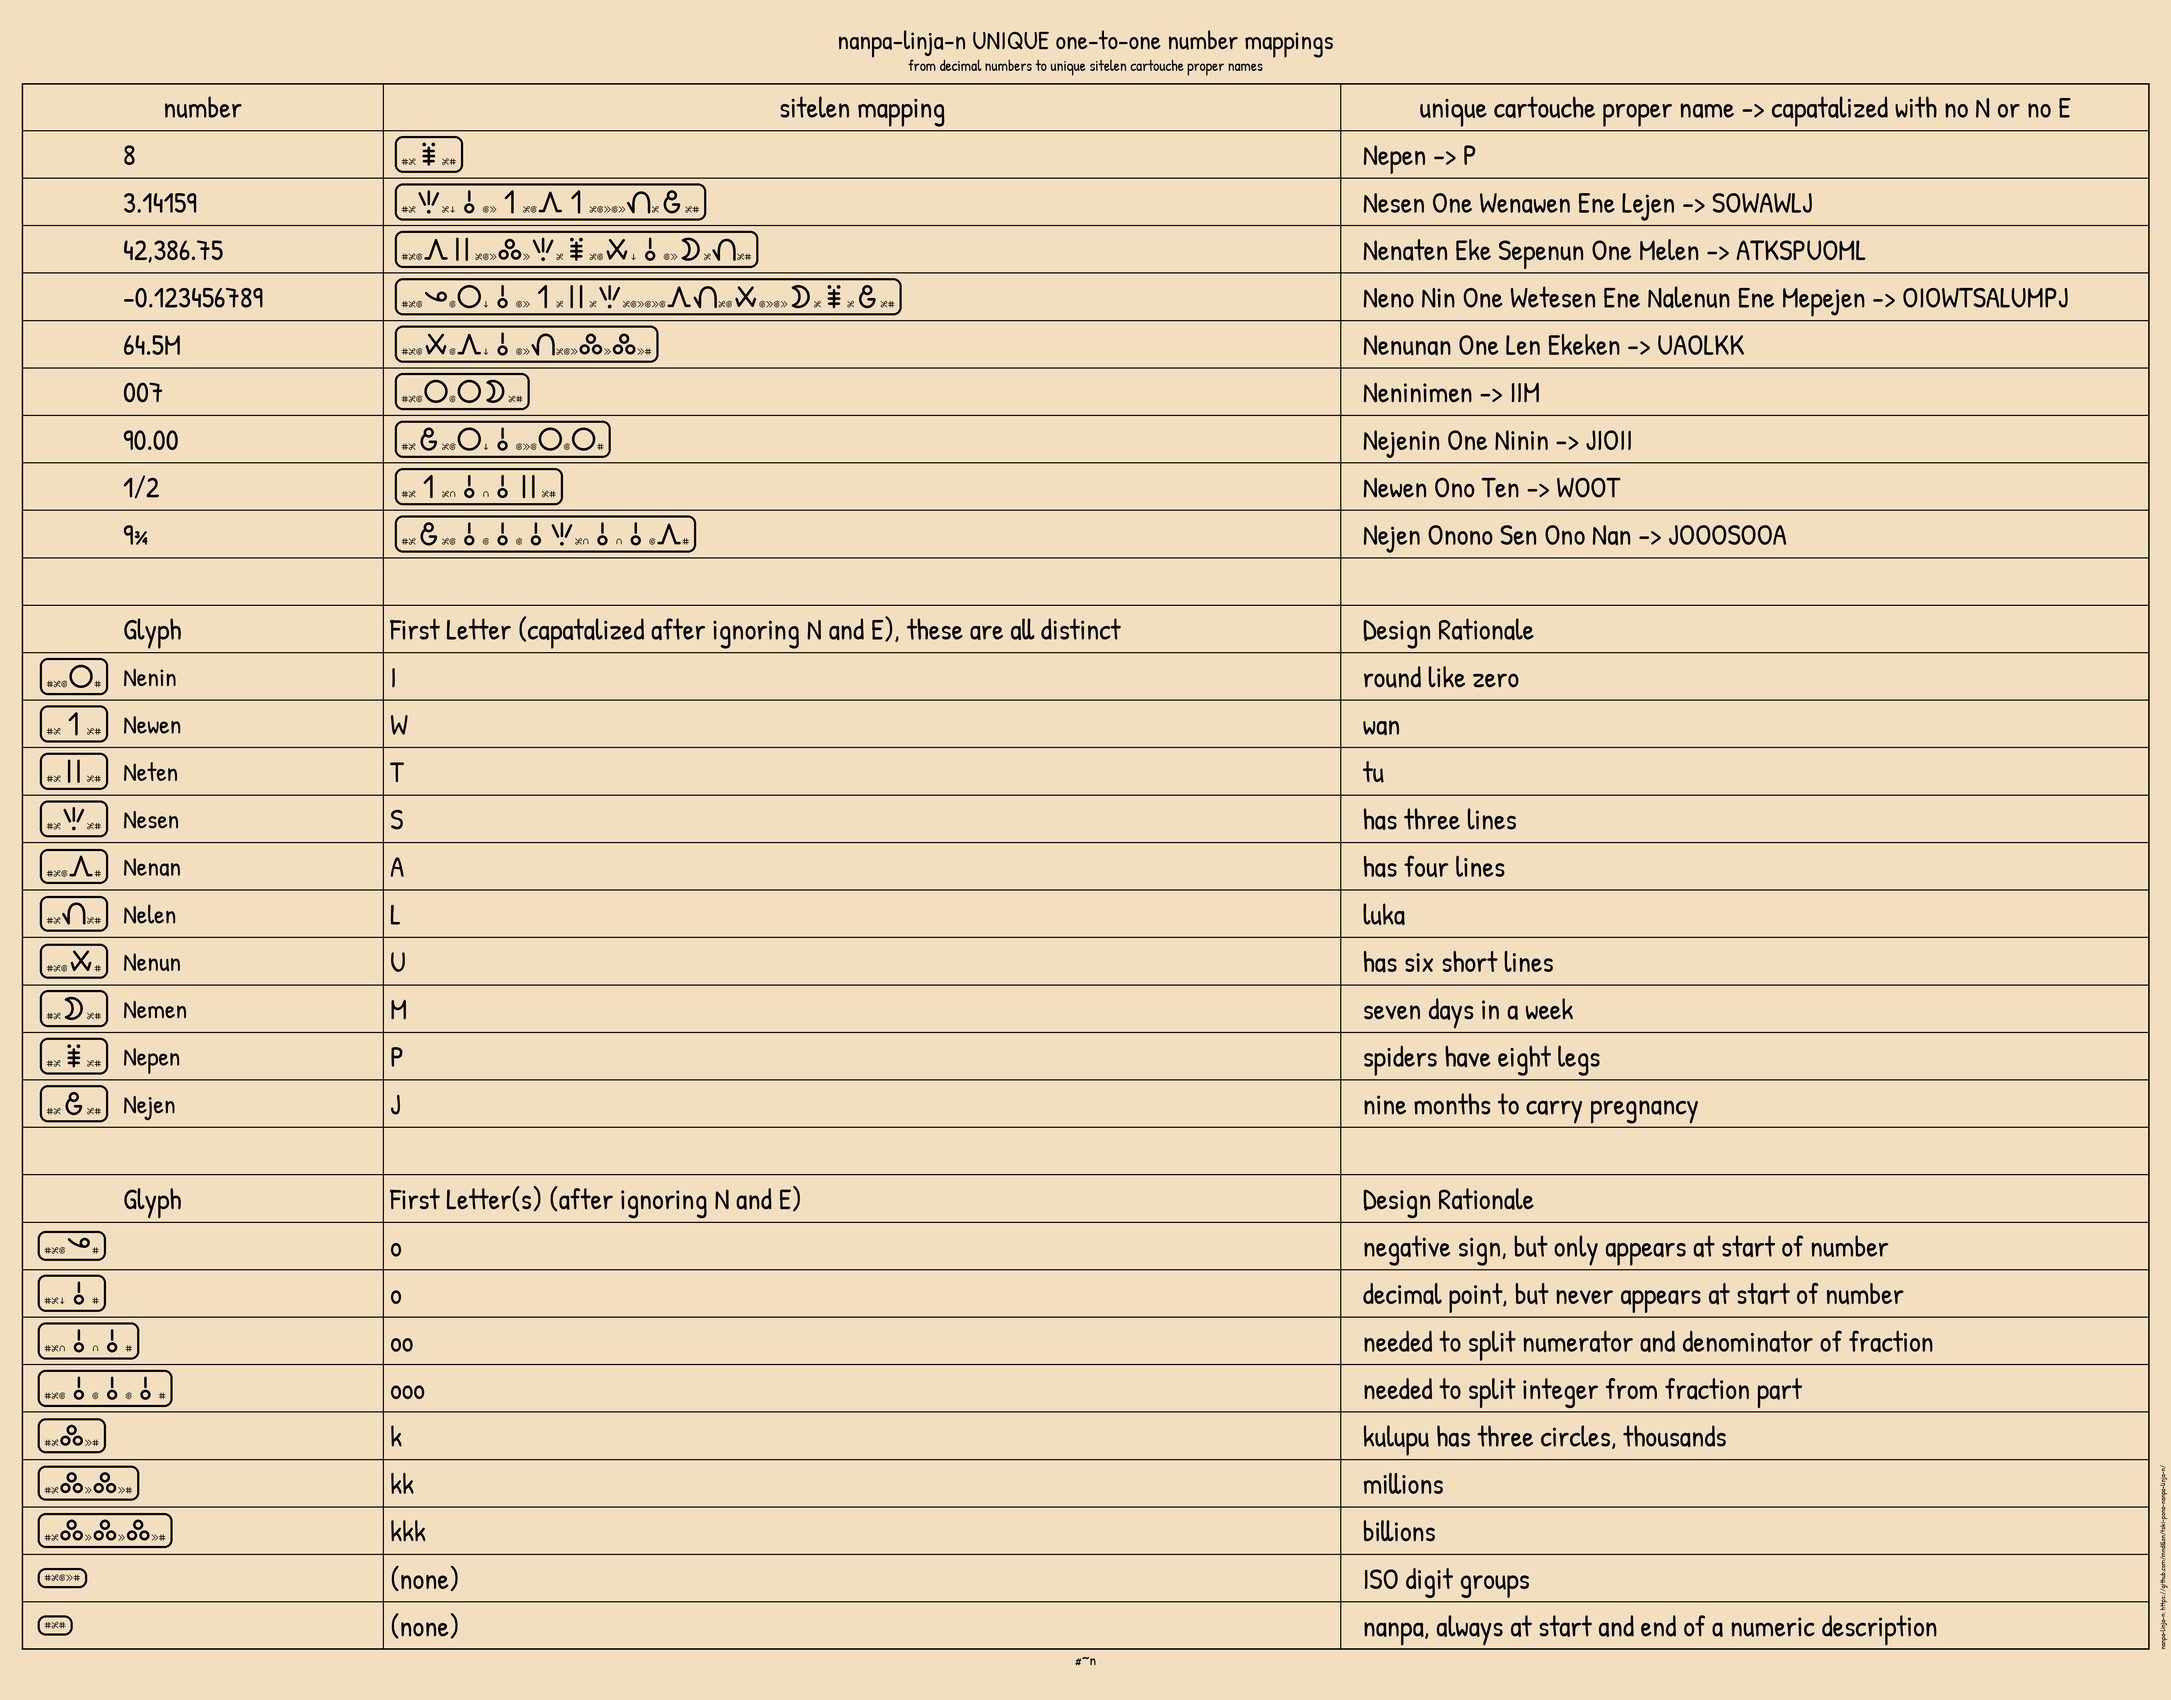
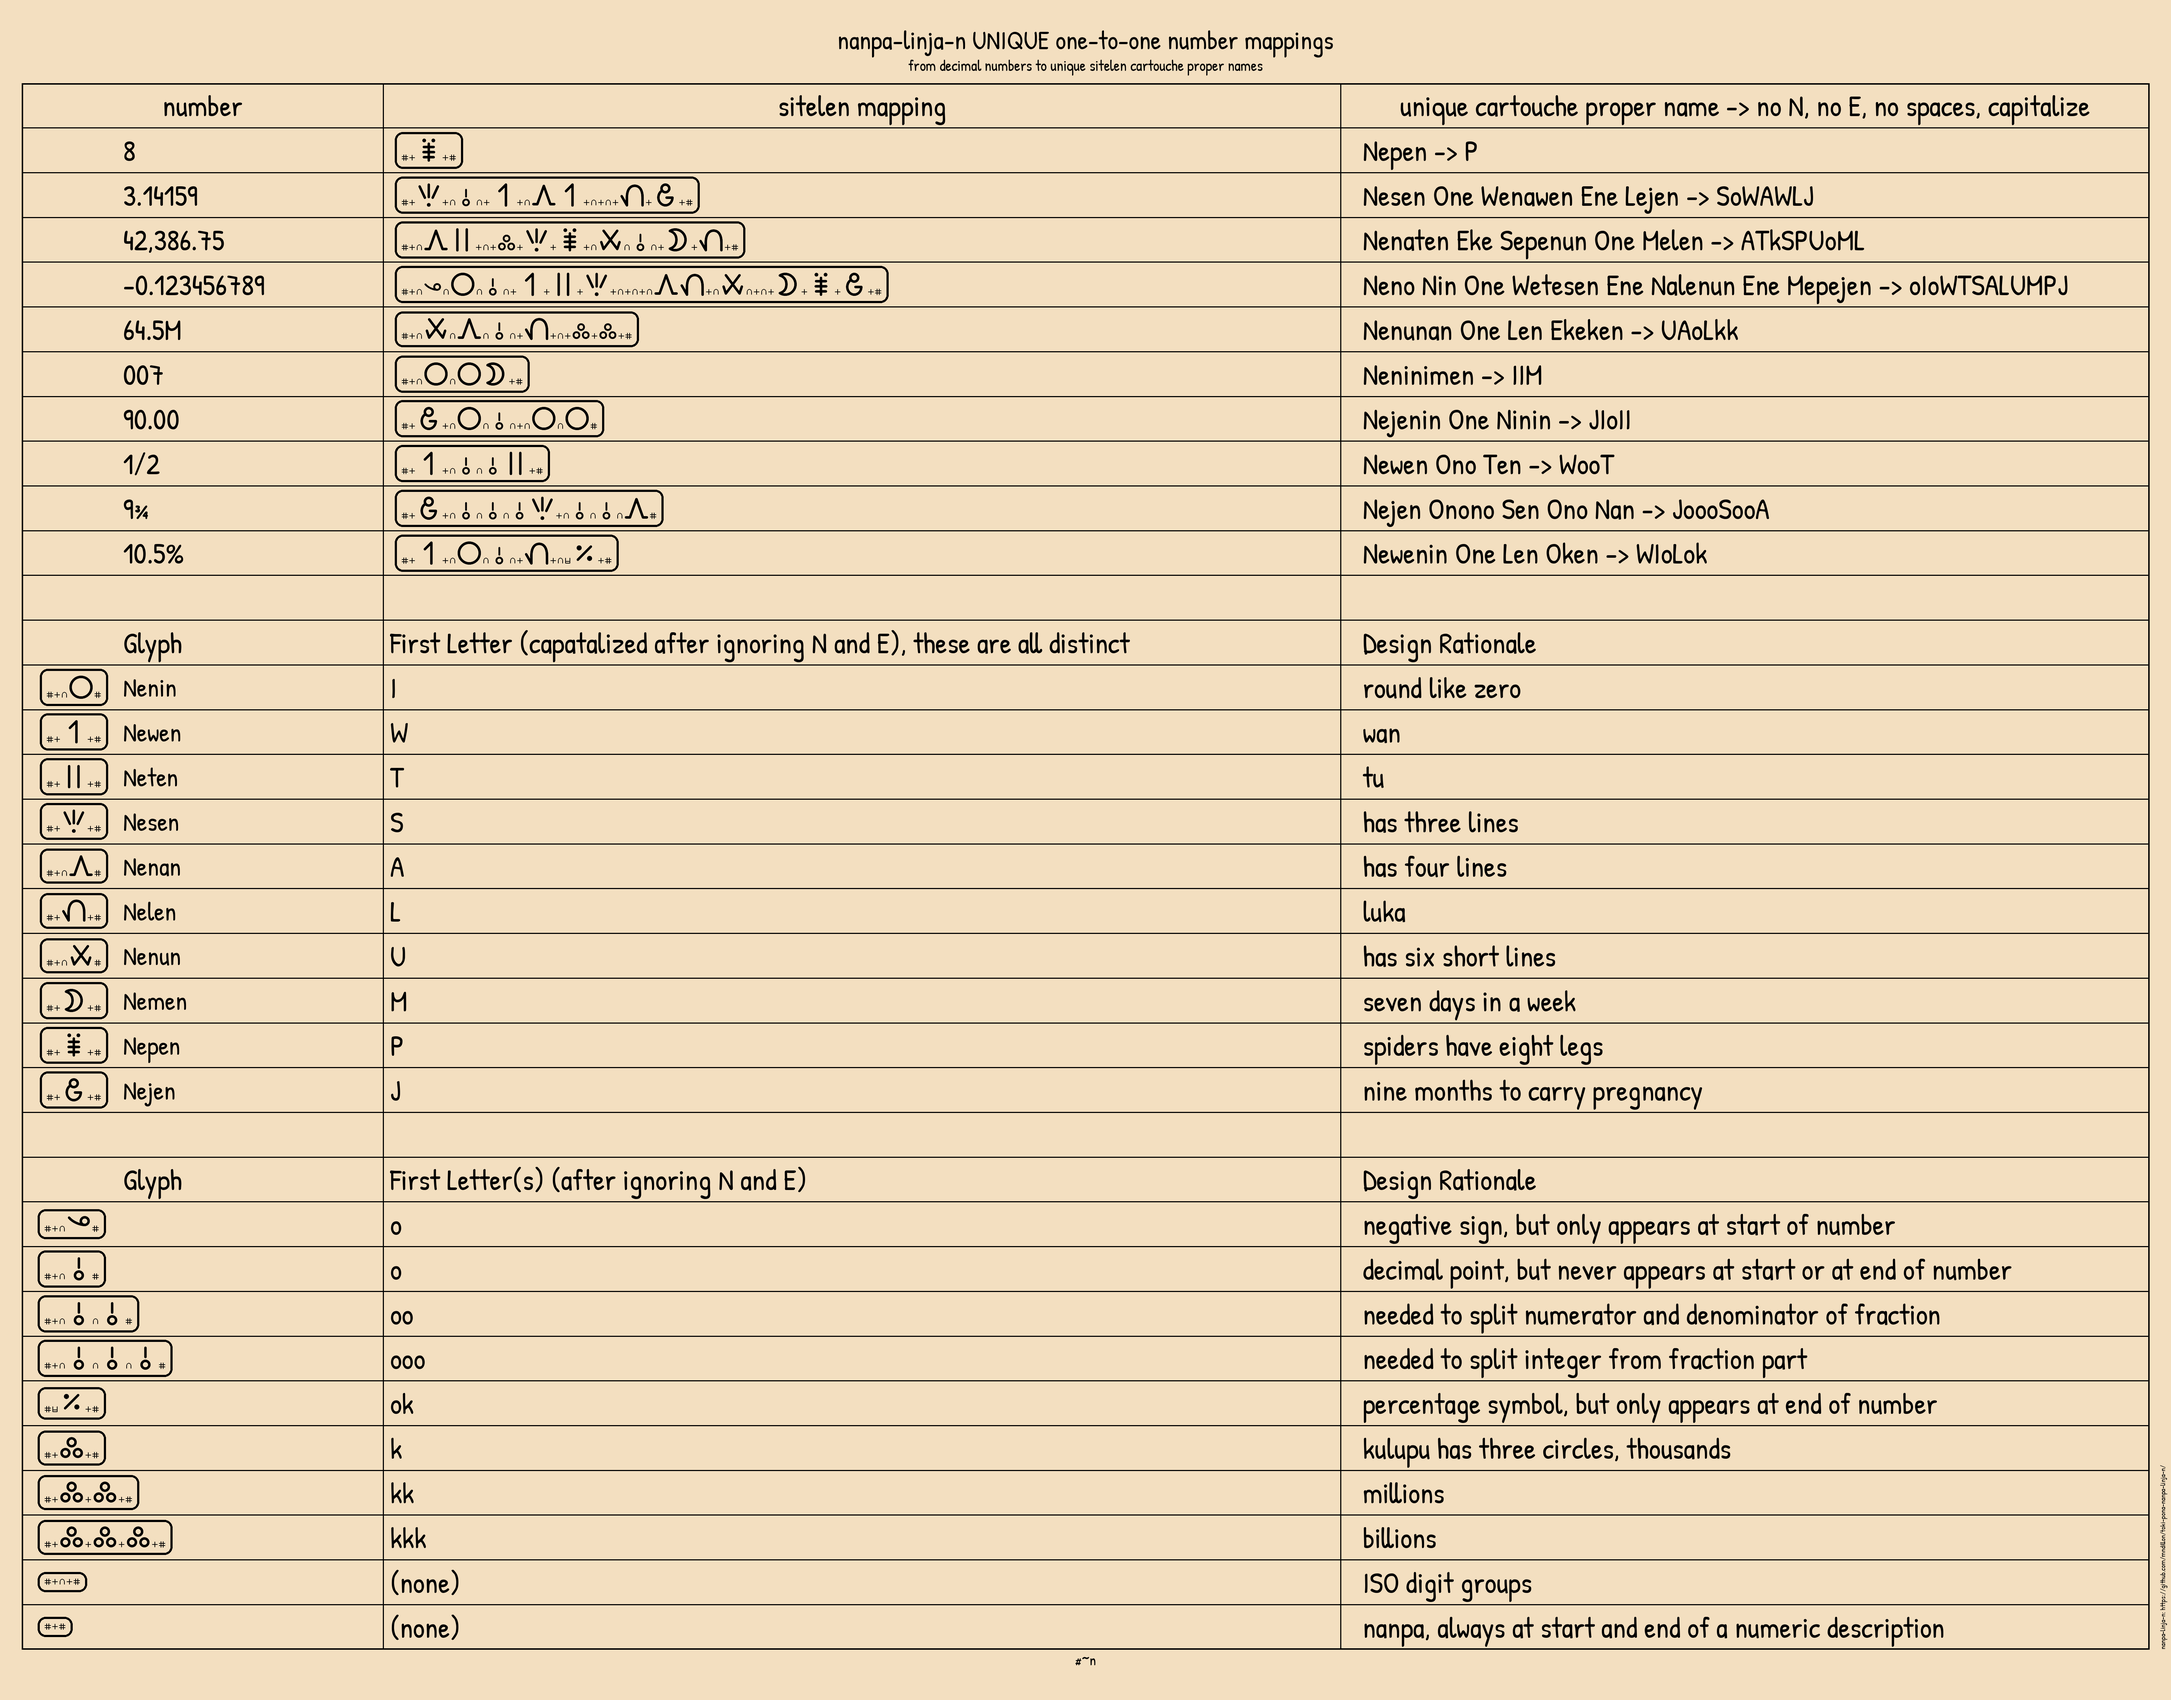
updated readme

diff --git a/README.md b/README.md
@@ -62,18 +62,18 @@ If we ignore 'n' and ignore 'e' in the words, then each digit word maps to a dif
 
 ## sitelen pona digit cartouches
 
-| Glyph                                                             | Letter       | #~n Cartouche                                                               | #~n Proper Name | Design Rationale               |
-|-------------------------------------------------------------------|--------------|-----------------------------------------------------------------------------|-----------------|--------------------------------|
-| <img src="images/horizontal 0 nasin nanpa.png" width="32"/>       | I            | <img src="images/horizontal 0 nasin nanpa cartouche.png" width="64"/>       | Nenin           | round like zero                |
-| <img src="images/horizontal 1 nasin nanpa.png" width="32"/>       | W            | <img src="images/horizontal 1 nasin nanpa cartouche.png" width="64"/>       | Newen           | wan                            |
-| <img src="images/horizontal 2 nasin nanpa v2.png" width="32"/>    | T            | <img src="images/horizontal 2 nasin nanpa cartouche.png" width="64"/>       | Neten           | tu                             |
-| <img src="images/horizontal 3 nasin nanpa v3.png" width="32"/>    | S            | <img src="images/horizontal 3 nasin nanpa cartouche v2.png" width="64"/>    | Nesen           | has three lines                |
-| <img src="images/horizontal 4 nasin nanpa v3.png" width="32"/>    | A            | <img src="images/horizontal 4 nasin nanpa cartouche v2.png" width="64"/>    | Nenan           | has four lines                 |
-| <img src="images/horizontal 5 nasin nanpa.png" width="32"/>       | L            | <img src="images/horizontal 5 nasin nanpa cartouche.png" width="64"/>       | Nelen           | luka                           |
-| <img src="images/horizontal 6 nasin nanpa v2.png" width="32"/>    | U            | <img src="images/horizontal 6 nasin nanpa cartouche.png" width="64"/>       | Nenun           | has six short lines            |
-| <img src="images/horizontal 7 nasin nanpa v3.png" width="32"/>    | M            | <img src="images/horizontal 7 nasin nanpa cartouche.png" width="64"/>       | Nemen           | seven days in week             |
-| <img src="images/horizontal 8 nasin nanpa v3.png" width="32"/>    | P            | <img src="images/horizontal 8 nasin nanpa cartouche.png" width="64"/>       | Nepen           | spiders have eight legs        |
-| <img src="images/horizontal 9 nasin nanpa v2.png" width="32"/>    | J            | <img src="images/horizontal 9 nasin nanpa cartouche.png" width="64"/>       | Nejen           | nine months to carry pregnancy |
+| Glyph                                                             | Distinct Letter       | #~n Cartouche                                                               | #~n Proper Name | Glyph Selection Rationale      |
+|-------------------------------------------------------------------|-----------------------|-----------------------------------------------------------------------------|-----------------|--------------------------------|
+| <img src="images/horizontal 0 nasin nanpa.png" width="32"/>       |           I           | <img src="images/horizontal 0 nasin nanpa cartouche.png" width="64"/>       | Nenin           | round like zero                |
+| <img src="images/horizontal 1 nasin nanpa.png" width="32"/>       |           W           | <img src="images/horizontal 1 nasin nanpa cartouche.png" width="64"/>       | Newen           | wan                            |
+| <img src="images/horizontal 2 nasin nanpa v2.png" width="32"/>    |           T           | <img src="images/horizontal 2 nasin nanpa cartouche.png" width="64"/>       | Neten           | tu                             |
+| <img src="images/horizontal 3 nasin nanpa v3.png" width="32"/>    |           S           | <img src="images/horizontal 3 nasin nanpa cartouche v2.png" width="64"/>    | Nesen           | has three lines                |
+| <img src="images/horizontal 4 nasin nanpa v3.png" width="32"/>    |           A           | <img src="images/horizontal 4 nasin nanpa cartouche v2.png" width="64"/>    | Nenan           | has four lines                 |
+| <img src="images/horizontal 5 nasin nanpa.png" width="32"/>       |           L           | <img src="images/horizontal 5 nasin nanpa cartouche.png" width="64"/>       | Nelen           | luka                           |
+| <img src="images/horizontal 6 nasin nanpa v2.png" width="32"/>    |           U           | <img src="images/horizontal 6 nasin nanpa cartouche.png" width="64"/>       | Nenun           | has six short lines            |
+| <img src="images/horizontal 7 nasin nanpa v3.png" width="32"/>    |           M           | <img src="images/horizontal 7 nasin nanpa cartouche.png" width="64"/>       | Nemen           | seven days in week             |
+| <img src="images/horizontal 8 nasin nanpa v3.png" width="32"/>    |           P           | <img src="images/horizontal 8 nasin nanpa cartouche.png" width="64"/>       | Nepen           | spiders have eight legs        |
+| <img src="images/horizontal 9 nasin nanpa v2.png" width="32"/>    |           J           | <img src="images/horizontal 9 nasin nanpa cartouche.png" width="64"/>       | Nejen           | nine months to carry pregnancy |
 
 Sitelen Cartouche Summary:
 
@@ -122,7 +122,7 @@ This gives us four uniquely decodable representations of the same underlying num
 Rules:
 
 - Take decimal number and convert to proper name using the rules below.  In sitelen pona, display the proper name in a cartouche using specific glyphs from the table above.
-- Take numeric proper name, remove any letter 'n', remove any letter 'e', remove any spaces, capitalize remaining letters (optionally leave 'o' and 'k' as lower case, as these letters represent punctuation in numbers), add #~ at the start to produce numeric abbreviation
+- Take numeric proper name, remove any letter 'n', remove any letter 'e', remove any spaces, capitalize remaining letters (optionally leave 'o' and 'k' as lower case, as these letters represent delimiters in numbers), add #~ at the start to produce numeric abbreviation
 
 
 Example:
